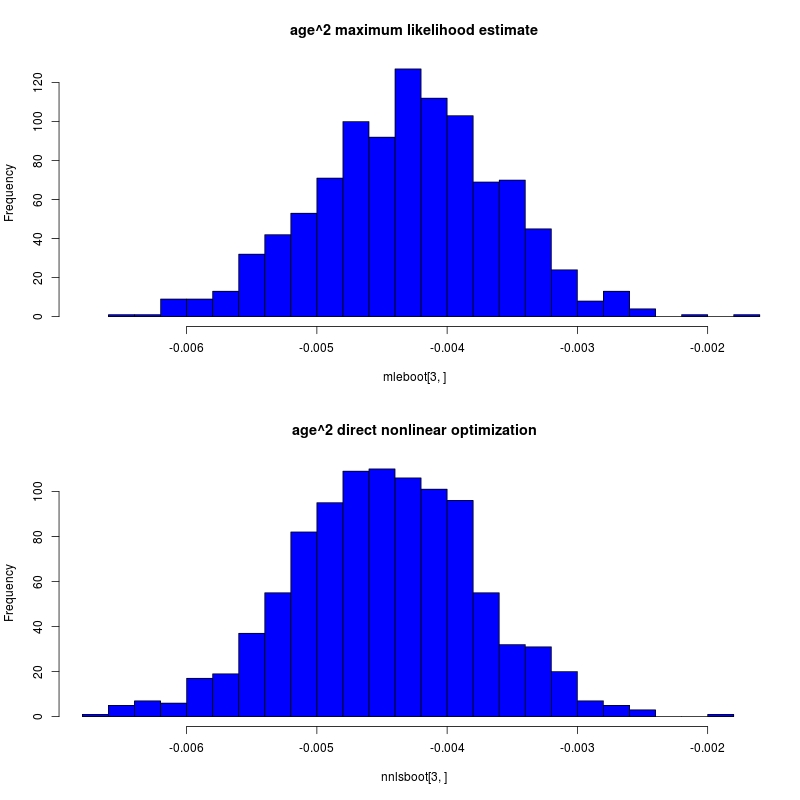
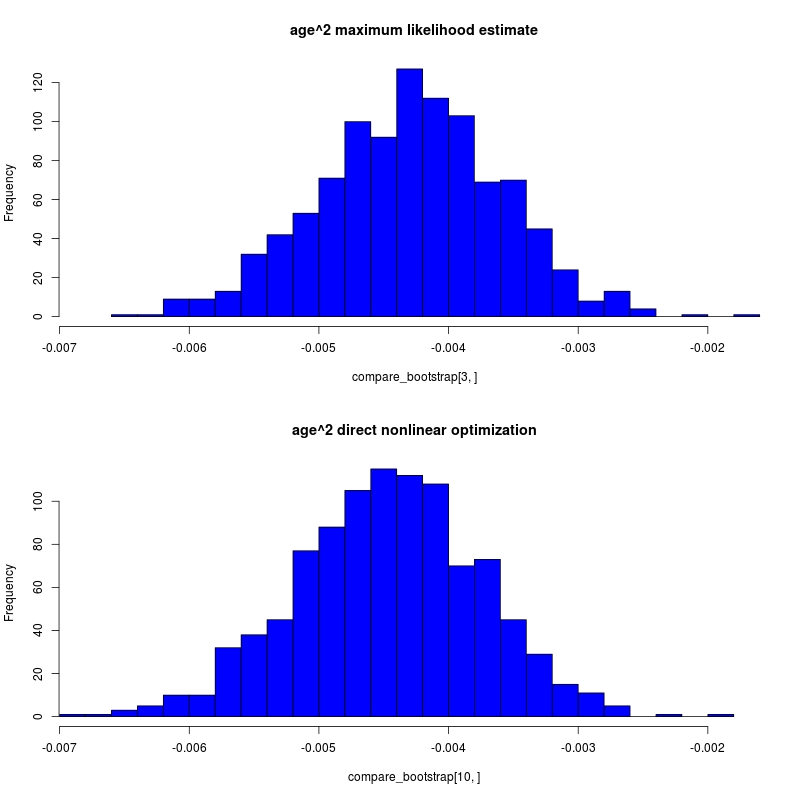
Notes

diff --git a/index.html b/index.html
@@ -207,9 +207,9 @@ roughly corresponds to logistic regression using R's <tt>glm</tt> function.
 #        g is the inverse link function (g=binomial()$linkinv  for logistic).
 # Output: The model coefficients x.
 
-nnls_glm <- function(A,b,g)
+nnls_glm = function(A,b,g)
 {
-  f <- function(x) crossprod(b - g(A %*% x))[]
+  f = function(x) crossprod(b - g(A %*% x))[]
   optim(rep(0,ncol(A)), fn=f, method="BFGS")$par
 }
 </pre>
@@ -406,16 +406,29 @@ which is just the ordinary least squares solution.
 
 <h2>IRLS Performance considerations</h2>
 
+<h2>Solving large GLMs by breaking them up into a series of smaller problems</h2>
+
 <h2>Distributed parallel computation of IRLS</h2>
 
 
 <h2>Footnote: Comparing NNLS and IRLS methods</h2>
 
-Is the simple nonlinear least squares estimate of the generalized linear model
-coefficients really that different from the IRLS/maximum likelihood estimate?
-At least in some cases they can in fact be quite similar.
+Is the simple nonlinear least squares estimate defined earlier of the
+generalized linear model coefficients really that different from the
+IRLS/maximum likelihood estimate?  In fact, generally these approaches produce
+quite similar estimates, even though they optimize different quantities: The
+MLE method maximizes a likelihood function, and the NNLS estimate minimizes the
+norm of the residual error.
 
+<p>
+Remember, the maximum likelihood method converges quickly. We present the
+results for the generic nonlinear optimization problem mostly because we find
+it interesting and have rarely seen a discussion on this topic elsewhere in the
+context of GLMs.
+
+<p>
 XXX finish up and clean up the comaprison code below...
+Consider formalizing how different they can be?
 
 
 <pre>
@@ -426,58 +439,67 @@ nobs = nrow(Contraception)
 MLE = glm(formula = use ~ age + I(age^2) + urban + livch,
           family = binomial, x=TRUE, data=Contraception)
 
-x = MLE$x   # The model matrix
-y = MLE$y   # The reponse vector
+# Here is the standard model summary provided by GLM:
+print(summary(MLE))
 
-# Compute the NNLS estimate
-logistic = function(x) 1/(1 + exp(-x))
-f = function(beta)
-{
-   w  = x %*% beta
-   lw = logistic(w)
-   crossprod(y - lw)[1]
-}
-NNLS = optim(rep(0,ncol(x)), fn=f, method="BFGS")
-names(NNLS$par) = colnames(x)
+<font color="#009">
+Call:
+glm(formula = use ~ age + I(age^2) + urban + livch, family = binomial, 
+    data = Contraception, x = TRUE)
 
-# Let's compare bootstrapped estimates to get better a sense of how these two
-# estimation approaches vary...First, let's obtain bootstrapped estimates of
-# the standard MLE solution:
+Deviance Residuals: 
+    Min       1Q   Median       3Q      Max  
+-1.4738  -1.0369  -0.6683   1.2401   1.9765  
+
+Coefficients:
+              Estimate Std. Error z value Pr(&gt;|z|)    
+(Intercept) -0.9499521  0.1560118  -6.089 1.14e-09 ***
+age          0.0045837  0.0089084   0.515    0.607    
+I(age^2)    -0.0042865  0.0007002  -6.122 9.23e-10 ***
+urbanY       0.7680975  0.1061916   7.233 4.72e-13 ***
+livch1       0.7831128  0.1569096   4.991 6.01e-07 ***
+livch2       0.8549040  0.1783573   4.793 1.64e-06 ***
+livch3+      0.8060251  0.1784817   4.516 6.30e-06 ***
+---
+Signif. codes:  0 '***' 0.001 '**' 0.01 '*' 0.05 '.' 0.1 ' ' 1
+
+(Dispersion parameter for binomial family taken to be 1)
+
+    Null deviance: 2590.9  on 1933  degrees of freedom
+Residual deviance: 2417.7  on 1927  degrees of freedom
+AIC: 2431.7
+
+Number of Fisher Scoring iterations: 4
+</font>
+
+# Let's compare the maximum likelihood estimate with a generic nonlinear
+# least squares solution using the bootstrap to get a better sense of how
+# these two estimation approaches vary.
+
+# Extract the response y and model matrix x from the MLE model object.
+A = MLE$x    # model matrix
+b = MLE$y    # response vector
+
 set.seed(1)
-mleboot = replicate(1000,
+compare_bootstrap = replicate(1000,
 {
   i = sample(nobs,nobs,replace=TRUE)
-  glm.fit(x=x[i,],y=y[i], family=binomial())$coef
+  c(mle=glm.fit(x=A[i,],y=b[i], family=binomial())$coef,
+       nnls=nnls_glm(A[i,], b[i], binomial()$linkinv))
 })
-
-# And now with the nonlinear least squares solution:
-fboot = function(i)
-{
-  function(beta)
-  {
-    w  = x[i,] %*% beta
-    lw = logistic(w)
-    crossprod(y[i] - lw)[1]
-  }
-}
-nnlsboot = replicate(1000,
-{
-  i  = sample(nobs,nobs,replace=TRUE)
-  f = fboot(i)
-  optim(rep(0,ncol(x)), fn=f, method="BFGS")$par
-})
+# (The bootstrap results are returned in a matrix where each column represents
+# a resampled set of estimates. The first 7 rows contain the MLE estimates and
+# the next 7 the NNLS estimates.)
 
 # Let's compare histograms of one of the more significant model variables in
-# this problem, the square of age:
-jpeg(file="compare.jpg",quality=100,width=800,height=800)
+# this problem, the square of age (in the 3rd and 10th rows):
 split.screen(c(2,1))
-xrange = c(min(min(mleboot[3,]),min(nnlsboot[3,])),
-           max(max(mleboot[3,]),max(nnlsboot[3,])))
+xrange = c(min(min(compare_bootstrap[3,]),min(compare_bootstrap[10,])),
+           max(max(compare_bootstrap[3,]),max(compare_bootstrap[10,])))
 screen(1)
-hist(mleboot[3,],main="age^2 maximum likelihood estimate",col=4,xlim=xrange,breaks=25)
+hist(compare_bootstrap[3,],main="age^2 maximum likelihood estimate",col=4,xlim=xrange,breaks=25)
 screen(2)
-hist(nnlsboot[3,],main="age^2 direct nonlinear optimization",col=4,xlim=xrange,breaks=25)
-dev.off()
+hist(compare_bootstrap[10,],main="age^2 direct nonlinear optimization",col=4,xlim=xrange,breaks=25)
 </pre>
 <img src="compare.jpg" alt="Comparison of IRLS/MLE and NNLS methods"></img>
 
